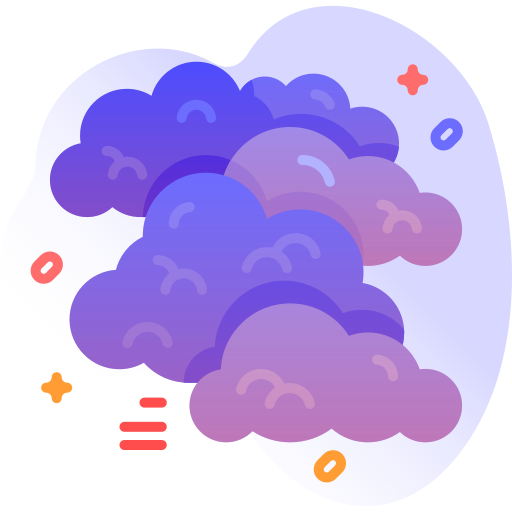
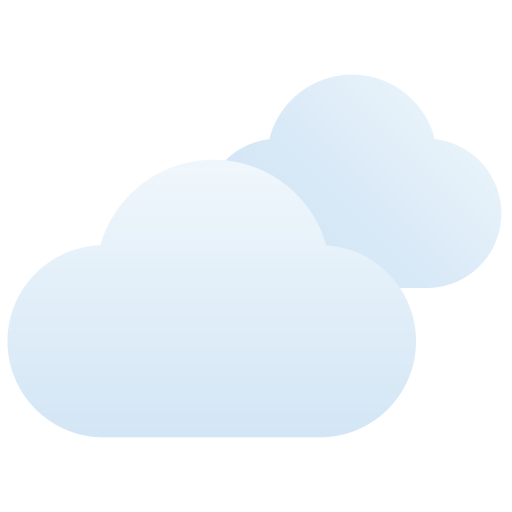
Added hideous tech stack skill bubbles

diff --git a/src/App.jsx b/src/App.jsx
@@ -18,32 +18,28 @@ function App() {
   // #7ef97e text color
 
   return (
-    <>
-    <div style={{display: 'flex', flexDirection: 'column', flexWrap: 'wrap'}}>
+    <ClearContainer>
+      <div style={{ display: 'flex', width: '100%', justifyContent: 'space-between', alignItems: 'center' }}>
+        <div className="nameplate">Korbin Brooks</div>
+        <ProfilePicture />
+      </div>
 
-      <ClearContainer>
-        <div className="nameplate">
-          Korbin Brooks
-        </div>
+      <div className="social-icons">
+        <MediaIcon className="resume-icon" image={resumeImage} onClick={() => open(`${resumeDoc}`)}/>
+        <MediaIcon className="github-icon" image={githubImage} onClick={() => open('https://github.com/Korbanzo')}/>
+        <MediaIcon className="linkedin-icon" image={linkedinImage} onClick={() => open('https://www.linkedin.com/in/korbinbrooks')}/>
+        <MediaIcon className="email-icon" image={emailImage} onClick={() => open("mailto:Brooks.m.Korbin@gmail.com")}/>
+      </div>
+      
+      <div className="projects-section">
+        <ProjectBrowser></ProjectBrowser>
+      </div>
 
-        <div className="social-icons">
-          <MediaIcon className="resume-icon" image={resumeImage} onClick={() => open(`${resumeDoc}`)}/>
-          <MediaIcon className="github-icon" image={githubImage} onClick={() => open('https://github.com/Korbanzo')}/>
-          <MediaIcon className="email-icon" image={emailImage} onClick={() => open("mailto:Brooks.m.Korbin@gmail.com")}/>
-          <MediaIcon className="linkedin-icon" image={linkedinImage} onClick={() => open('https://www.linkedin.com/in/korbinbrooks')}/>
-        </div>
-        
-        <div className="projects-section">
-          <ProjectBrowser></ProjectBrowser>
-        </div>
+      <div className="weather-section">
+        <WeatherDenver/>
+      </div>
 
-        <div className="weather-section">
-          <WeatherDenver/>
-        </div>
-
-      </ClearContainer>
-    </div> 
-    </>
+    </ClearContainer>
   )
 }
 

diff --git a/src/components/ProjectBrowser.jsx b/src/components/ProjectBrowser.jsx
@@ -1,10 +1,13 @@
 import { useState } from 'react'
 import projectJSON from '../assets/projects.json'
 import DoublyLinkedList from '../utils/DoublyLinkedList'
+import SkillBubble from './SkillBubble'
+
+// Alright, so we want to make there be some bubbles under each project description to show the tech stack used (languages and frameworks)
 
 const jsonToArray = (jsonFile) => {
     let jsonArray = [];
-    jsonFile.map(project => (jsonArray.push([project.name, project.description, project.link, project.id])))
+    jsonFile.map(project => (jsonArray.push([project.name, project.description, project.link, project.tech_stack, project.id])))
 
     return jsonArray;
 }
@@ -70,6 +73,11 @@ const ProjectBrowser = ({}) => {
                     <>
                     <h2 className="project_browser_title" onClick={() => open(`${current.link}`)}>{current.name}</h2>
                     <p className="project_browser_description">{current.description}</p>
+                    <div className="project_browser_skills">
+                    { current.tech_stack.map((skill) => (
+                        <SkillBubble key={skill}>{skill}</SkillBubble>
+                    ))}                    
+                    </div>
                     </>
                 )
             }

diff --git a/src/utils/DoublyLinkedList.js b/src/utils/DoublyLinkedList.js
@@ -1,8 +1,9 @@
 class Node {
-    constructor(name, description, link, id) {
+    constructor(name, description, link, tech_stack, id) {
         this.name = name;
         this.description = description;
         this.link = link;
+        this.tech_stack = tech_stack;
         this.id = id;
         this.next = null;
         this.prev = null;
@@ -18,8 +19,8 @@ class DoublyLinkedList {
     static FromArray(arr) {
         const doublyLinkedList = new DoublyLinkedList();
 
-        for (const [name, description, link, id] of arr) {
-            const node = new Node(name, description, link, id);
+        for (const [name, description, link, tech_stack, id] of arr) {
+            const node = new Node(name, description, link, tech_stack, id);
 
             if (!doublyLinkedList.head) { 
                 doublyLinkedList.head = doublyLinkedList.tail = node;

diff --git a/src/index.css b/src/index.css
@@ -24,6 +24,18 @@ body {
   }
 }
 
+@keyframes rainbowCircle {
+  from {
+    background-image: linear-gradient(0deg, red, orange, yellow, green, blue, indigo, violet);
+  } to {
+    background-image: linear-gradient(45deg, red, orange, yellow, green, blue, indigo, violet);
+  }
+}
+
+.animate-rainbow {
+  animation: rainbowCircle 1s infinite;
+}
+
 .animate-next {
   animation: slideInNext .5s ease-in-out;
 }
@@ -44,6 +56,13 @@ body {
 
 .project_browser_description {
   margin: 0;
+}
+
+.project_browser_skills {
+  display: flex;
+  flex-direction: row;
+  gap: 15px;
+  margin: 10px auto;
 }
 
 .arrow-controls {

diff --git a/src/components/WeatherDenver.jsx b/src/components/WeatherDenver.jsx
@@ -68,17 +68,13 @@ const WeatherIcons = {
 const WeatherDenver = () => {
 
     const [weather, setWeather] = useState(null);
-    const [isDay, setIsDay] = useState(null);
 
     useEffect( () => {
         fetch(URL)
             .then((response) => response.json())
             .then((data) => {
                 setWeather(data); 
-                setIsDay(data.current.is_day === 1);
             });
-
-            
     }, [])
 
     if (!weather) return <p>loading weather...</p>

diff --git a/src/components/SkillBubble.jsx b/src/components/SkillBubble.jsx
@@ -1,0 +1,17 @@
+const SkillBubble = ({children}) => {
+
+    return (
+        <div className="animate-rainbow" style={{
+            width: 'fit-content',
+            padding: '.5rem',
+            borderRadius: '50%',
+            fontSize: '1.2rem',
+        }}>
+
+            {children}
+        </div>
+    );
+
+}
+
+export default SkillBubble;

diff --git a/src/App.css b/src/App.css
@@ -16,9 +16,13 @@ body {
 }
 
 .nameplate {
+  display: flex;
+  flex-direction: row;
   text-shadow: 2px 2px 4px rgba(89, 85, 85, 0.764);
   font-size: 4rem;
   margin: 0 auto;
+  width: 100%;
+  justify-content: center;
 }
 
 .social-icons {

diff --git a/src/components/ProfilePicture.jsx b/src/components/ProfilePicture.jsx
@@ -12,6 +12,7 @@ const ProfilePicture = () => {
                 width: '100px',
                 height: '100px',
                 borderRadius: '50%',
+                justifySelf: 'flex-end'
             }}>
 
         </div>
